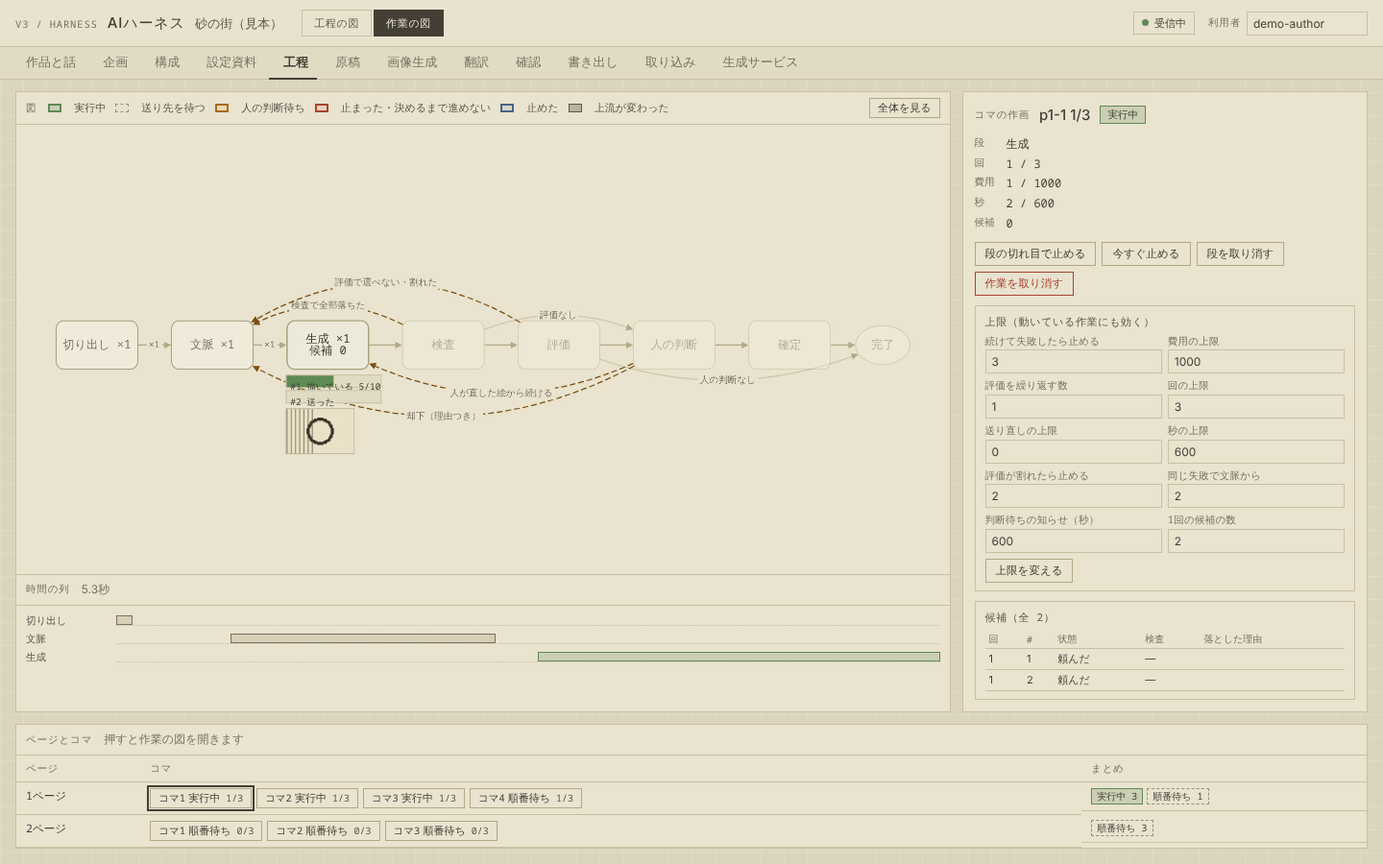
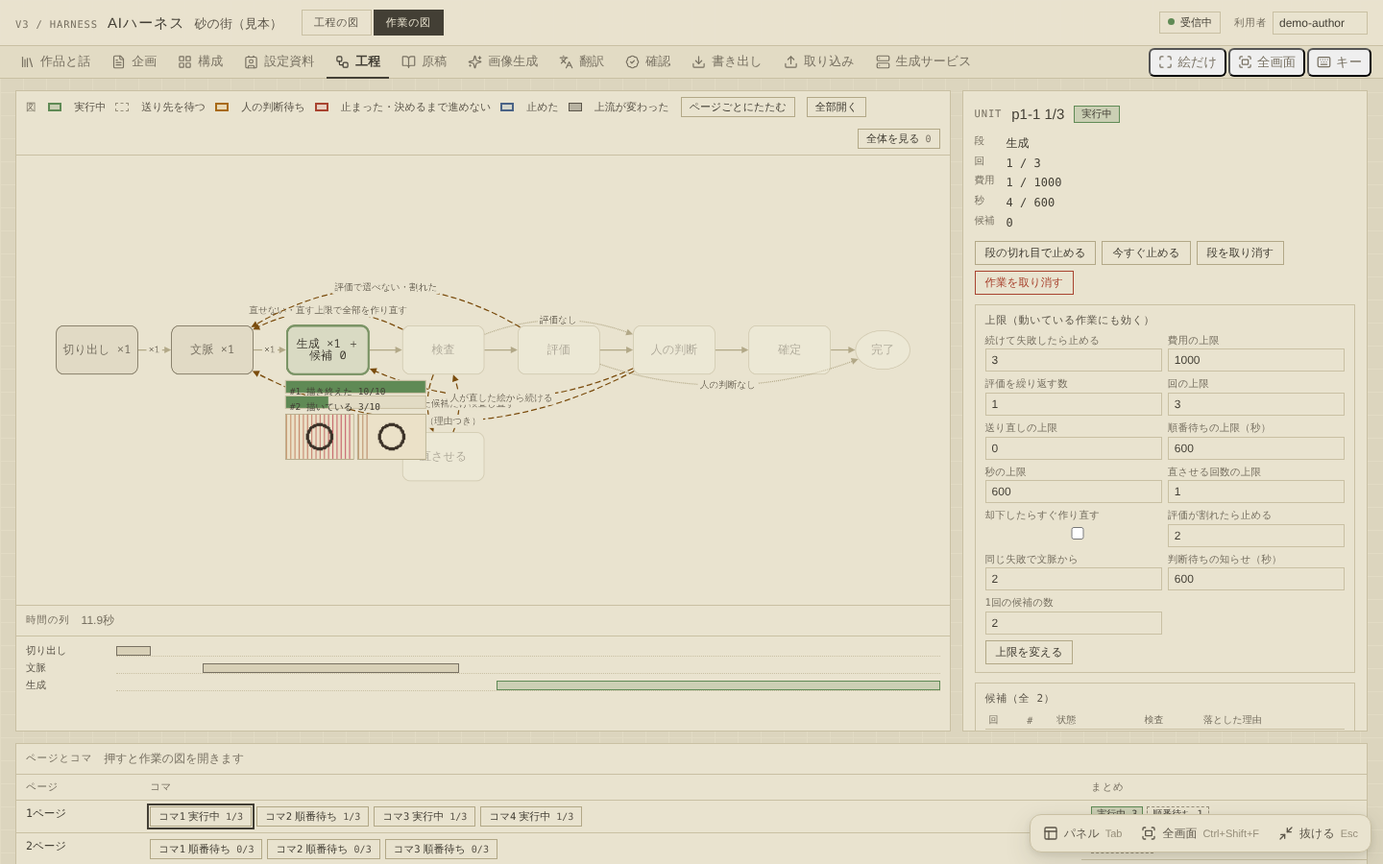
V3ハーネス: 見本に inpaint の送り先・図の中を見る口を外へ渡せる値に・却下して止めるの画面の試験・文書（途中）
Claude-Session: https://claude.ai/code/session_01Pk2NLoJ9LQmx8YhiLBcSBf

diff --git a/v3/web/harness/harness.js b/v3/web/harness/harness.js
@@ -90,7 +90,10 @@ async function main() {
   }
   rememberWork(S.workId);
   graph = new HarnessGraph($("#graph"), $("#graph-overlay"), { onTap, onStepsChanged: refreshDetail });
-  probe.graphNodes = (sel) => graph.cy.nodes(sel).map((n) => n.data());  // 画面の試験（harness_ui.mjs）が図の中を見る
+  // 画面の試験（harness_ui.mjs）が図の中を見る。たたんだノードの data には中の要素（collapsedChildren）が入り、
+  // ブラウザの外へ渡せないので、文字・数・真偽の値だけを渡す
+  probe.graphNodes = (sel) => graph.cy.nodes(sel).map((n) =>
+    Object.fromEntries(Object.entries(n.data()).filter(([, v]) => v === null || typeof v !== "object")));
   probe.toggleStep = (step) => graph.toggleStep(step);  // 同じく、段を押したのと同じ動き
   $("#tab-stage").addEventListener("click", () => openStageView());
   $("#tab-unit").addEventListener("click", () => S.unitId && openUnit(S.unitId));

diff --git a/v3/server/tests/integration/harness_screen_demo.py b/v3/server/tests/integration/harness_screen_demo.py
@@ -86,7 +86,8 @@ async def setup(api: httpx.AsyncClient, comfy: FakeComfyServer) -> dict:
                                                               "ai_task": "drawing", "ai_action": "propose"})).raise_for_status()
 
     comfy_sid = await service(kind="image", adapter="comfyui", endpoint=comfy.url, send_mode="parallel", max_concurrency=4)
-    for name in ("text_to_image", "image_to_image"):
+    # 背景の切り出し・3D と、直させる段は inpaint を使う（文脈の段が送り先を確かめる）
+    for name in ("text_to_image", "image_to_image", "inpaint"):
         await route(comfy_sid, name, comfy_graph_settings=SD, comfy_wait_seconds=120)
     # litellm は送った先のその先が見えないので api として登録し、作品の送ってよい先へ載せる（下の ops）
     llm_sid = await service(location="api", kind="text", adapter="litellm", send_mode="parallel", max_concurrency=6)

diff --git a/llm_doc/V3ハーネスの実装.md b/llm_doc/V3ハーネスの実装.md
@@ -9,10 +9,28 @@
 - **StageWorkflow**（`stage_workflow.py`）が1つの工程の実行（S0〜S7 のどれか1つ）を進めます。作業を切り出し（`prepare_stage`）、
   同時に回す数の上限まで子の作業を起こし、全部が終わったら工程の検査（`stage_check`）をして、人の承認を待ちます。
   承認されると次の工程の実行を作ります（`advance_stage`。S7 の次はありません）。
-- **WorkUnitWorkflow**（`unit_workflow.py`）が作業1つの流れです。段は「切り出し → 文脈 → 生成 → 検査 → 評価 → 人の判断 → 確定」。
-  やり直しの線（検査や評価で外れた → 文脈へ戻る）と、却下（人の判断 → 文脈へ戻る）があります。
-- 作業を切り出すのは S3（ネーム。`name_draft_steps.py`）と S4（作画。`panel_drawing_steps.py`）だけです。
-  ほかの工程は作業を切り出さず、工程の検査に「人が中身を見て次へ進める」と書いて承認を待ちます。
+- **WorkUnitWorkflow**（`unit_workflow.py`）が作業1つの流れです。段は「切り出し → 文脈 → 生成 → 検査 → 直させる → 評価 → 人の判断 → 確定」。
+  - 検査で落ちた候補のうち、落ちた所が囲める物（文字・顔）は「直させる」段で囲んで直し、直した候補だけを検査し直します。
+    回数は作業の上限 `max_fix_rounds` までです。上限に達したか直せない物は、文脈へ戻って全部を作り直します。このとき出来事 `fix_fallback` を残します。
+  - 評価で選べない・割れたとき（文脈へ戻る）と、却下（人の判断 → 文脈へ戻る）の線もあります。
+- **どの工程も作業を切り出します**（`harness_states.UNIT_KIND_OF_STAGE`）。人が決める所は、作業の中の「人の判断」の段にしています。
+
+  | 工程 | 作業の種類（ファイル） | AI・プログラムがすること | 人だけがすること |
+  |---|---|---|---|
+  | S0 企画 | `plan_interview`（`plan_interview_steps.py`） | LLM が人への質問か企画の案を作る。必須項目がそろうかを検査 | 質問に答える（review の `answer`）・案を採る |
+  | S1 構成 | `structure`（`structure_steps.py`） | LLM が1話のページ配分・見せ場・伏線を作る。ページの数と番号を検査、観点ごとの判定は指摘だけ | 採る（`EpisodeOutline` を書く） |
+  | S2 設定資料 | `settings_sheet`（`settings_sheet_steps.py`） | LLM が人物と場所の文章と絵を作る言葉を作る。主要な人物の見分けを指摘 | 採る（既にある名前は足さない）。参照の絵を置く |
+  | S3 ネーム | `name_draft` | 前からのまま | 採る |
+  | S4 作画 | `panel_drawing` | 生成・検査・直させる・評価役 | 完成条件に `human_approve` を入れたときだけ採る |
+  | S5 仕上げ | `page_finishing`（`page_finishing_steps.py`） | 人が置いた吹き出し・文字を写して検査するだけ（ネームの検査・顔の隠れ・読む順） | 吹き出し・文字・擬音を置く |
+  | S6 総合 | `overall_review`（`overall_review_steps.py`） | ページを描いて黒の量・白さを測り、VLM が要約と構成との食い違いを書く | 見て完成とする |
+  | S7 書き出し | `export`（`export_steps.py`） | 決めた形で書き出し、入稿前の確かめを指摘にする | 見て採る（提出。外へは送らない） |
+
+  - 人が採るまで終わらない工程は `HUMAN_APPROVE_STAGES`（S0・S1・S2・S3・S6・S7）です。完成条件に `human_approve` を必ず足します。
+  - S5〜S7 の指摘では候補を落としません。候補は今の原稿を写した物・測った物なので、落としても同じ物を作り直すだけになるためです。
+  - S0〜S2・S5〜S7 が共に使う部品は `stage_steps_common.py` にあります。LLM の問いは `llm_questions/` の
+    `plan_interview_question.py`・`structure_question.py`・`settings_sheet_question.py`・`overall_review_question.py` で、どれも LiteLLM を通します。
+  - review の `answer` は、モジュールで `TAKES_ANSWERS = True` とした作業（今は `plan_interview` だけ）にしか使えません。ほかの作業では口が 422 で断ります。
 - 判断待ち・止めた・止まった・決めるまで進めない（`WAITING_HUMAN`）の作業は、同時に回す数に数えません。
   人を待つ作業が上限を埋めて、ほかの作業が進まなくなるのを避けるためです。
   作業がこの状態に入るときと出るときに、親へ `unit_waiting` の Signal を送ります。
@@ -22,11 +40,48 @@
   - 取り消す：半端な候補は却下にします
 - そのほかの操作は次のとおりです。
   - 上限を変える
-  - 人の判断：採用、理由をつけた却下（理由は次の回の問いに入ります）、人が直した絵から続ける（人の手の範囲を守る処理で作ります）
+  - 人の判断：採用、理由をつけた却下、人が直した絵から続ける（人の手の範囲を守る処理で作ります）
+    - **却下は止まるだけです**（決めごと 5.3。2026-10-08 に直しました。前はすぐ作り直していました）。今の回の候補を却下にして
+      「止まった」になり、人が再開を押すと、却下の理由を次の回の問いに入れて作り直します。止まっている間に上限を変えても続きません。
+      すぐ作り直すのは、上限の `redo_on_reject` を入れたときだけです（決めごと 9章の4。既定は入れません）。画面のボタンも
+      「却下して止める」と「却下して作り直す」をこれで切り替えます。
 - 上流（コマの中身・設定資料など）が変わると「古い」の印を付けます（`upstream_watch.py`）。自動では作り直さず、人が頼んだときだけ作り直します。
   印の付いた作業がまだ動いているときは、段の切れ目で止めます。
+- **時間の上限（`budget_seconds`）には、段を動かした秒だけを数えます。** 送り先の順番待ち（段の依頼がどれも動いていない間）は
+  数えず、別の上限 `wait_seconds`（1つの段の中の待ちの合計）で持ちます（`queue_calls.WaitClock`）。待ちの上限を超えると依頼を
+  取り消して「止まった」になり、人が上限を上げるか再開すると、同じ段を頼み直します。失敗の数には入れません。
+  - p60 で、待ちを時間に数えると、混んだときに1台の ComfyUI を待つだけで作業が止まりました（`V3検証の結果.md` の P60）。
+  - 段の活動の打ち切り（start_to_close）は `budget_seconds + wait_seconds` です。待った秒は出来事 `step` の `waited_seconds` に残します。
+  - 待ちの数え方は `tests/unit/test_harness_wait_clock.py` で確かめました。本物の混み方で止まらないかは未検証です。
 - 送り先への依頼は、今ある順番待ち（GenerationJob）を通します（`queue_calls.py`）。`harness_key` で同じ依頼を重ねません。
   ただし、いちばん新しい依頼が取り消しになっていれば頼み直します。今すぐ止めたあとの再開がこれに当たります。
+
+### 1.1.1 ワークフローの作りを変えるときの決まり
+- p60 で、ワークフローの作りを変えた後に、終わった作業を query で読み直すと決定性の誤り（nondeterminism）になりました。
+  Temporal は、前の作りで作られた履歴を、今の作りで最初からなぞり直す（replay）からです。
+- そこで、**Temporal へ出す命令（活動を始める・待つ時間・子のワークフロー・Signal を送る）の数・順・種類が変わる変更は、
+  `workflow.patched("<印の名前>")` の中に書きます。** 新しい道を if の中に、前の道を else に残します。
+  - 印の名前は `unit_workflow.py` の先頭に定数で置きます。今ある印は次の3つです（2026-10-08）。
+    - `cancel-after-success`：取り消しを頼んだ段が成功で終わっても、頼まれた取り消しを当てる
+    - `wait-not-in-budget`：順番待ちを時間の上限に数えず、待ちの上限で持つ
+    - `reject-stops`：却下は止まるだけにする
+  - 印は消しません。消してよいのは、印より前に始まった作業の履歴が全部消えた後で、そのときは `workflow.deprecate_patch` を挟みます。
+  - 命令が変わらない変更（変数の計算・query の返す形・記録の中身）は印が要りません。
+  - 活動に渡す dataclass（`StepInput` など）に項目を足すときは、既定の値を付けます（前の履歴の入力が読めるように）。
+  - 上限（`limits`）に項目を足したときは、前に始まった作業の `limits` にその項目がありません。印の中で、項目の有無を見てから使います。
+- 前の作りの履歴を今の作りでなぞり直す試験（`temporalio.worker.Replayer`）はまだありません。前の作りの履歴を残していないためです
+  （未実装）。作るときは、`handle.fetch_history()` で取った履歴を `tests/fixtures/` に置いて、`Replayer.replay_workflow` に渡します。
+
+### 1.1.2 取り消しが消える件（p60）
+- p60 で、temporalio 1.34.0 は、取り消しを頼んだ活動が成功で終わると、ワークフローの取り消しを消すと分かりました。
+- このサーバーは Temporal のワークフローの取り消しを使わず、取り消しを自前の変数（`cancel_unit_by`・`cancel_step_by`）で持ちます。
+  そのため、取り消しそのものは消えません。ただし段の取り消しは、段が成功で終わると黙って捨てられ、作業はそのまま次の段へ
+  進んでいました（`test_unit_workflow_timeskip.py` の `段の取り消しは_段が成功で終わっても捨てずに当てる` で再現しました）。
+  今は、段が成功で終わっても頼まれた取り消しを当てます（印 `cancel-after-success`）。作業の取り消しは、前から次の段の切れ目で
+  止まっていました（同じ試験の作業の取り消しの方は、直す前も通りました）。
+- 取り消しの遅れ：p60 は約12秒でした。生存の知らせの間引きが、SDK の既定（生存の知らせの期限の8割）だったためです。
+  このサーバーの作業者は、間引きを1秒にしてあります（`harness_worker_main.py`・`queue_worker_main.py` の
+  `max_heartbeat_throttle_interval`）。測った遅れは 3 章にあります。
 
 ### 1.2 正本の記録と口
 - 表（移行 `0013_ai_harness.py`。0012 の後）は次の7つです。
@@ -43,6 +98,13 @@
   - 作業の操作：`POST units/{id}/control`、`review`、`limits`
   - 古い印を外す：`POST stale/{id}/dismiss`
   - 読む口：`GET snapshot`、`units/{id}`、`review-items`（判断待ちの一覧）、`stage-runs`、`stream`（SSE）
+- 移行 `0030_harness_stages_fix_notify.py`（`down_revision = '0021'`。0020・0021 は v3-server-plan の物）で次を足しました。
+  - `harness_candidates` に `content`（文章の案）・`made_with`（使った依頼）・`fixed_from`・`fix_round`
+  - `episode_outlines`（S1 の構成。v3-server-plan の `episode_plans`・`foreshadowings` と中身が一部重なります。どちらに寄せるかは未決です）
+  - `harness_notifications`・`harness_notification_settings`・`harness_notification_deliveries`（知らせ。1.4）
+- 閾値の案：`GET thresholds` は、作業が使う閾値ごとに意味・使う工程・今の値・案を返します（`threshold_proposals.py`）。
+  - 案の値は検証で測った所だけです（`text_score` 0.05、`ccip_threshold` 0.178。出典は `V3検証の結果.md`）。ほかは値を持たず、決める材料だけを書きます。
+  - 案を黙って入れることはしません。画面で人が `set_threshold`（状態 `unverified`）を送り、作品で確かめたら「確かめた」（`verified`）にします。
 - SSE（`live_stream.py`）は `harness_events` を順に流します。`?after=<last_event_id>` で続きから読めます。何も無いときも15秒ごとに生存の知らせを送ります。
 - ComfyUI の進み具合と途中の絵は `service_call_progress` に書きます（`service_senders/comfyui_progress.py`）。
 
@@ -66,9 +128,43 @@
   - 図（`harness_graph.js`）は、この呼び名を `getComputedStyle` で読みます。Cytoscape は CSS の変数も `color-mix()` も読めないので、ブラウザに解かせた色を1画素の canvas で rgb にしています。
   - 色の組を替えるときは `common/themes/` の組のファイルだけを直します。
 - **キー・絵だけ・全画面**（2026-10-08）：`startKeys("harness")` を `loadAuth()` のあとで呼びます（`common/keys.js`。`V3細部の決めごと.md` 22章）。絵だけ（Shift+F）は図だけを画面いっぱいに出す見張る画面です（上の帯・画面の帯・右の欄・ページとコマの表に `data-v3-panel`）。図の大きさが変わると `v3-view` を受けて Cytoscape に `resize()` と `fit()` を送ります。0 で図の全体を見ます。試験は `test/keys_ui.mjs`（偽の口）で、写しは `v3/web/screenshots/17_harness_focus.png`。
+- **図を開く・たたむ**（cytoscape-expand-collapse 4.1.1 を `vendor/` に置いて読みます）
+  - 工程の図の作業は「工程の作業 > ページ > 作業」の入れ子のまとまりです。まとまりを押すとたたみ、もう一度押すと開きます。
+    帯の「ページごとにたたむ」「全部開く」でも切り替えられます。たたんだまとまりには、作業の数と状態の内訳を出します。
+    色は、中で一番急ぐ状態（止まった・判断待ちが先）に合わせます。たたんでいる間に増えた作業は、開いたときに足します。
+  - 作業の図では、生成・直させる・検査・評価の段を押すと中を開きます。開ける段のラベルには「＋」、開いた段には「－」が付きます。
+    - 生成・直させる：送り先ごとの依頼の数と失敗の数
+    - 検査：項目ごとの通る・落ちる・測れないの数
+    - 評価：くり返しの回ごとの、比べた数・同点の数・1位
+  - 中身は今の回（attempt）の分です。依頼の行は SSE で届かないので、開く・たたむたびに作業の中身を取り直します。
+  - 開く・たたむ印の絵（拡張の cue）は使いません。拡張の既定の印は色を自分で持っていて、theme.css の色の変数に従わないためです。
+  - 置き直しは `_layoutUnits`（工程の図）と `_syncParts`（作業の図）の2か所だけでします。拡張には並べ直しをさせません（`layoutBy: null`）。
+- **閾値の欄**：右の欄に、作業が使う閾値の一覧（意味・工程・今の値と状態・案と出典）を出します。案のある所は「案を入れる」、入れた値は「確かめた」で状態を変えます。
+- **質問に答える**：企画の聞き取り（S0）の判断待ちでだけ、答えの欄を出します。画像の無い候補（文章の案）も中身を出して採れます。
+- **知らせの欄**：未読の知らせ（1.4）と、作品の知らせの決まり（出す種類・Webhook・急ぎに上げる回数・予算の割合）を出します。
+  ブラウザの知らせは、人が「ブラウザの知らせを使う」を押して許したときだけ出します（出来事 `notification` を SSE で受けます）。
 - **SSE**：`EventSource` は見出しを付けられないので、`authFetch` の stream で読みます（`harness_sse.js`）。
   - 35秒何も来なければ切れたとみなし、「切断中」を出します。
   - つなぎ直すときは snapshot を取り直してから続きを読みます。
+
+### 1.4 知らせ（`harness_notify.py`。決めごと 17章）
+- 知らせを作るのは1か所です。ハーネスの出来事を足す所（`harness_record.add_event`）が、出来事ごとに `rules()` を通します。
+  どの段・どの口から足した出来事もここを通るので、知らせの漏れが出ません。同じ知らせは `dedupe_key` で1つにします。
+- 種類は5つです。
+  - 判断待ちになった（`generated`）
+  - 止まった・失敗した・決めるまで進めない（`failed`）
+  - 予算に近づいた（`budget_near`）：作品の決まりで割合を決めたときだけ出します
+  - 判断待ちが長い（`review_overdue`）：`review_notice` を受けたとき。決まりの `escalate_after_notices` 回目から「急ぎ」（`escalated`）に上げます
+  - 工程の承認待ち（`stage_review`）
+- 出す先
+  - アプリの中の一覧：作品の決まりの行が無ければ、全部の種類をここにだけ出します。
+  - Webhook：決まりで入れた先にだけ送ります（既定では送りません）。本文に HMAC-SHA256 の署名（`X-V3-Signature`）を付けます。
+    「急ぎ」は、送り先ごとの種類の絞り込みに関係なく全部の送り先へ送ります。
+    送るのはハーネスの作業者の中の `send_pending_forever` で、失敗したら 5・10・20・40 秒の間を空けて、5回まで送り直します。
+  - メール：送る所は作っていません。`CHANNEL_SENDERS` に `email` の送り手を足し、決まりの検査で受ければ、同じ届けた記録と送り直しで動きます。
+- 口：`GET notifications`（`unread`・`limit`）、`POST notifications/{id}/read`、`GET`/`PUT notification-settings`。
+  署名の鍵は読む口で返しません。保存のとき、同じ URL の鍵を省くと今の鍵を残し、空の文字にすると消します。
+- 招いた人の赤入れ・締切（決めごと 19章）の知らせは、ハーネスの出来事に無いので出していません（未実装）。
 
 ## 2. 試験（偽物を使う）
 - `tests/integration/test_harness.py`（21件）では、PostgreSQL・Temporal・OpenFGA は本物を使います。
@@ -80,6 +176,14 @@
   - データベースは `v3_harness_demo` を使い、試験の `v3_test` とは分けています。
   - 起動したら、Playwright の `v3/web/test/harness_ui.mjs` で画面写真7枚を `v3/web/harness/screenshots/` に撮ります。
 - litellm の送り先は local と言えないので、試験と見本では api として登録し、作品ごとに送ってよい先へ載せています。
+- 試験の分け方（印は pytest の marker。印の登録は試験を分ける別の作業がします）
+  - 印なし：流れの分岐は `tests/unit/test_unit_workflow_timeskip.py`（9件・約5秒）で確かめます。Temporal の時間を飛ばす試験環境
+    （`WorkflowEnvironment.start_time_skipping()`）で、活動は偽物に替えます。直させる段の行き来、上限での作り直し、答え、
+    判断待ちの知らせ、止める・再開などです。決まった秒を待つ所はありません。
+  - `full`：本物の Temporal・PostgreSQL を使う通しの試験です。`test_harness.py`・`test_harness_drawing.py`（作画の形の指定・背景の3D・
+    直させる段・評価の同点・一致の崩れ）・`test_harness_stages.py`（S0・S1・S2・S6）・`test_harness_notify.py`（知らせ）。
+  - `perf`：`test_harness_perf.py`（今すぐ止める遅れ・コマ100）。`pytest -m perf -s` で流し、数を出します。既定の試験には入れません。
+  - S5・S7 の通しの試験はまだありません（段の関数は S6 と同じ部品を使います）。
 
 ## 3. 確かめて分かったこと
 - **今すぐ止めても、ComfyUI に止める指示が届くまで最大5秒かかります。**

diff --git a/llm_doc/V3点検の結果.md b/llm_doc/V3点検の結果.md
@@ -55,7 +55,8 @@
 - 色：カラーのページの CMYK と ICC が無い。→ PDF のカラーのページを入稿先の ICC プロファイルで CMYK にする所まで作った（2026-10-08。刷った色は未検証。`V3サーバーの土台.md` 3.6）
 - 見開きの PSD を戻せない。→ 作った（2026-10-08）
 ### AIの本体（点検2）
-- **作った（2026-10-08）**：工程の進行役と作業1回の流れ、判断待ちの一覧（`review-items`）、上流を変えたときの古い印、工程の画面、ハーネスの作画の文脈に設定資料の人物を入れる所、検出器と評価役を作画の流れにつなぐ所。作業を切り出すのは S3・S4 だけ。詳しくは `V3ハーネスの実装.md`。閾値の初めの値（今は無ければ「閾値未設定」で止める）と LLM の問いの残りは、この点検のまま。
+- **作った（2026-10-08）**：工程の進行役と作業1回の流れ、判断待ちの一覧（`review-items`）、上流を変えたときの古い印、工程の画面、ハーネスの作画の文脈に設定資料の人物を入れる所、検出器と評価役を作画の流れにつなぐ所。詳しくは `V3ハーネスの実装.md`。
+- **作った（2026-10-08、続き）**：S0〜S2・S5〜S7 の作業（人だけで決める所は作業の中の人の判断の段）、閾値の案の一覧と画面で人が決める欄（案は検証で測った2つだけ。黙って入れない）、企画・構成・設定資料・総合の LLM の問い（LiteLLM を通す）、知らせ（アプリの中の一覧・Webhook・判断待ちが長いと急ぎに上げる。メールは送り手を足す所だけ）。閾値の値そのものは作品ごとに人が決めるので、新しい作品では今も「閾値未設定」で止まる（止まるのが正しい。黙って値を入れない）。
 - **p60 で確かめた（2026-10-08、`v3poc/p60_harness_loop/`、`V3検証の結果.md` の P60）**：Temporal の親子のワークフローで、この流れと画面を試作した。
   - 作業者を落としても、ComfyUI の実行と登録の重複は0。依頼の番号を毎回変える版では、1枚に実行が2件になった。
   - 判断待ちは、作業者と Temporal を立て直しても残った。上限（回数・費用・時間・失敗の連続・断られた）では必ず止まった。
@@ -114,14 +115,14 @@
     - 評価を、2枚を左右入れ替えて2回比べる形にする（食い違ったら引き分け）
     - 一貫性がずれたコマだけを作り直す
     - 検査を足す：吹き出しと顔の重なり、ネームの人物の範囲との重なり、同一キャラ判定、手、年齢区分
-  - 図を、段を開いて中を見られる形にする
+  - 図を、段を開いて中を見られる形にする → 作った（2026-10-08。cytoscape-expand-collapse。工程の図の作業もページごとにたためる）
     - 生成は、つなぎ先（API）ごとに分ける
     - 検査は、項目ごとに分ける
     - 評価は、2枚ずつ比べた回ごとに分ける
-  - 作業の切り出しを S0〜S2・S5〜S7 にも広げる（今は S3・S4 だけ）
-  - 閾値の初めの値を入れる。検証の数字がある所は案として出し、人が作品ごとに決める
-  - LLM の問いの残りをつなぐ（約10種のうち、口につながっているのは2種）
-  - 判断待ちを知らせる（画面の中の一覧と webhook。メールは口だけ）
+  - 作業の切り出しを S0〜S2・S5〜S7 にも広げる → 作った（2026-10-08）
+  - 閾値の初めの値を入れる。検証の数字がある所は案として出し、人が作品ごとに決める → 作った（2026-10-08）
+  - LLM の問いの残りをつなぐ → 企画・構成・設定資料・総合の4つを作った（2026-10-08）。設定資料の参照の絵（画像生成）は未実装
+  - 判断待ちを知らせる（画面の中の一覧と webhook。メールは口だけ） → 作った（2026-10-08）。赤入れ・締切の知らせは未実装
   - 「今すぐ止める」で ComfyUI が止まるまでの遅れ（最大5秒）を縮める
   - 50〜100 の作業を同時に回して重さを測る
   - 本物の ComfyUI で1つの作業を通す
